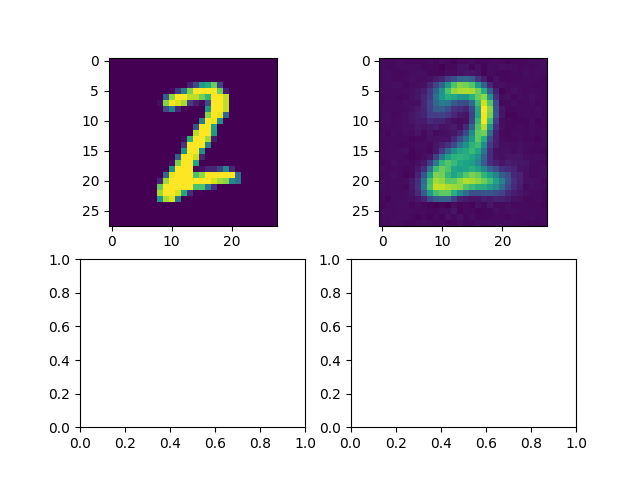
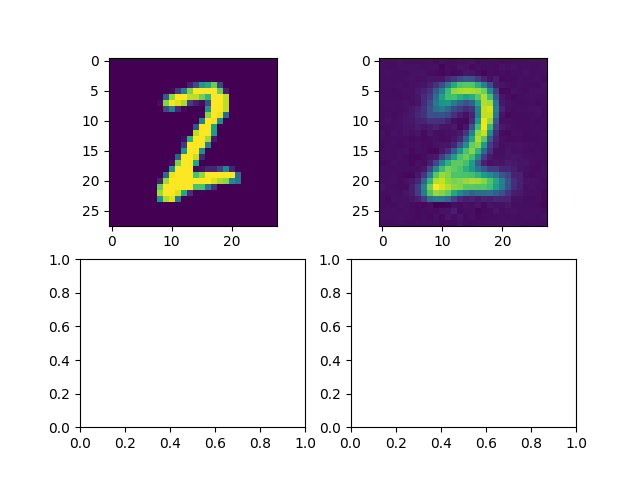
fixed issue memory overflow

Changed region(s): [[0.6562, 0.1562, 0.7812, 0.4375]]

diff --git a/main.py b/main.py
@@ -288,7 +288,7 @@ def inner_loop(hyper, target, optimizer, criterion):
         conditioning_vector = torch.concatenate((mu[:n_samples_conditioning], logvar[:n_samples_conditioning]), 0).view(-1)
         X = X.view(X.shape[0], -1)
         
-        optimizer.zero_grad()
+        #optimizer.zero_grad()
 
         params = hyper(conditioning_vector)
         params = [(W.to(device), b.to(device) if b is not None else None) for (W, b) in params]
@@ -296,8 +296,9 @@ def inner_loop(hyper, target, optimizer, criterion):
         logits = target.forward(X, params)
         loss = criterion(logits, y)
 
-        loss.backward(create_graph=True)
-        optimizer.step()
+        #loss.backward(create_graph=True)
+        torch.autograd.grad(loss, hyper.parameters(), create_graph=True, allow_unused=True)
+        #optimizer.step()
     
     return hyper
 
